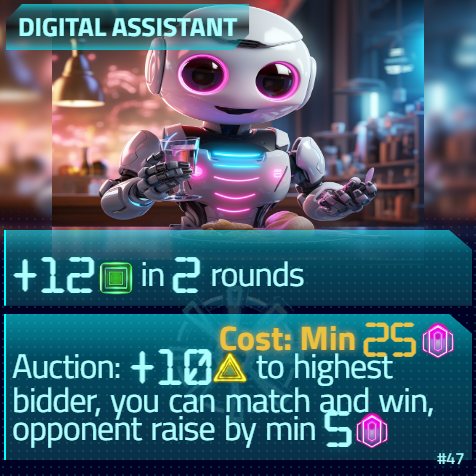
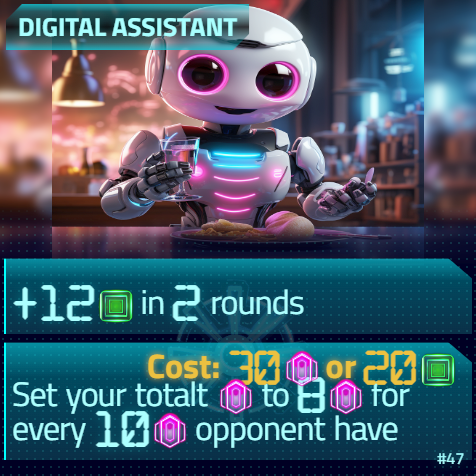
tweaks after playetest micke

diff --git a/src/components/SingularityCards2.js b/src/components/SingularityCards2.js
@@ -188,6 +188,14 @@ const roundEvents = [
     "details": "No more Card Draws from now on"
   },
   {
+    "title": "Start of Round 10",
+    "details": "Both players may give +8 score to opponent to take 1 card from opponents discard pile"
+  },
+  {
+    "title": "Start of Round 10",
+    "details": "Both players may give +8 score to opponent to take 1 card from opponents discard pile"
+  },
+  {
     "title": "Start of Round 9",
     "details": "One player may Declare Swap: Opponent gains +8 score both players exchange cards no take-backs"
   },
@@ -298,7 +306,7 @@ const initialCards =[
     "action1": "Calibrate Reward Parameters",
     "details1": "+6 \nand +8 data if your discard pile has a card with 'Data' in its name",
     "action2": "Outsource Labeling",
-    "details2": "Competition: Player with most Score after 2 \nmore rounds get +12 score",
+    "details2": "Competition: Player with most Score after 2 \nmore rounds get +10 score",
     "cost": "10 Data or 4 processing",
     "id": 4,
     "type": "base"
@@ -340,9 +348,9 @@ const initialCards =[
     "img": "/chatgpt-apps3/static/media/gan.c7a1131628c7e0ddca44.jpg",
     "title": "FontSGenerative Adversarial Network",
     "action1": "Deceive Discriminator",
-    "details1": "Both players get +6 data per 10 data",
+    "details1": "+10 data",
     "action2": "Begin Zero-Sum Game",
-    "details2": "Competition: The player with the most processing after 2 \nmore rounds gets +12 score",
+    "details2": "Competition: The player with the most processing after 2 \nmore rounds gets +10 score",
     "cost": "10 Data or 4 processing",
     "id": 8,
     "type": "hc"
@@ -351,7 +359,7 @@ const initialCards =[
     "img": "https://cdn.midjourney.com/f58a0612-0df7-428d-ab04-48509b54bc4f/0_0.webp",
     "title": "Computer Vision",
     "action1": "Detect objects",
-    "details1": "Copy any free action in your discard pile",
+    "details1": "+3 processing and +3 processing per 10 processing",
     "action2": "Tune model",
     "details2": "Competition: The player with highest reached data starting now get +12 score at end of game",
     "cost": "14 Data or 6 processing",
@@ -362,9 +370,9 @@ const initialCards =[
     "img": "https://cdn.midjourney.com/fa3f2293-32d8-497c-8e6d-6750afb5e420/0_2.png",
     "title": "Recurrent Neural Network",
     "action1": "Recall Long Short-Term Memory",
-    "details1": "+3 processing and +3 processing per 10 processing",
+    "details1": "Copy any free action in your discard pile",
     "action2": "Backpropagate errors",
-    "details2": "Reveal 1 \ncard from hand and play the free action of that card 2\ntimes\n",
+    "details2": "From now, get an additional +2 processing each time an action gives you processing excluding this card",
     "cost": "16 data or 8 processing",
     "id": "10",
     "type": "base"
@@ -406,10 +414,10 @@ const initialCards =[
     "img": "/chatgpt-apps3/static/media/blixt.1e43ccc8de62f427e69b.jpg",
     "title": "CPU Voltage Spike",
     "action1": "Accidentally Overclock",
-    "details1": "+10 data",
+    "details1": "",
     "action2": "Overload game",
-    "details2": "From now, get an additional +2 processing each time an action gives you processing excluding this card",
-    "cost": "16 data or 8 processing",
+    "details2": "",
+    "cost": "",
     "id": 17,
     "type": "base"
   },
@@ -505,7 +513,7 @@ const initialCards =[
     "img": "https://cdn.midjourney.com/553dcd0f-4029-4a32-9b8e-4b57f1c186f3/0_1.png",
     "title": "Virtual Reality",
     "action1": "Ready Player One",
-    "details1": "+2 data per score",
+    "details1": "+1 data per score",
     "action2": "Enter Matrix ",
     "details2": "Swap 1 card in hand with 1 card in any discard pile",
     "cost": "10 data or 6 processing",
@@ -551,8 +559,8 @@ const initialCards =[
     "action1": "Set timer for 2 minutes",
     "details1": "+12 processing in 2 \nrounds",
     "action2": "Record secretly",
-    "details2": "Auction: +10 score to highest bidder, you can match and win, opponent raise by min 5 data",
-    "cost": "Min 25 data",
+    "details2": "Set your totalt data to 8 data for every 10 data opponent have",
+    "cost": "30 data or 20 processing",
     "id": "47",
     "type": "v2"
   },
@@ -584,7 +592,7 @@ const initialCards =[
     "action1": "Tunnel TV",
     "details1": "+6 processing and +4 processing if opponent have 0 processing",
     "action2": "Trick tyrant",
-    "details2": "In 2 \nrounds, pick one of +80 data <br> or +40 processing or +16 score",
+    "details2": "In 2 \nrounds, pick one of +80 data <br> or +38 processing or +16 score",
     "cost": "50 data or 24 processing",
     "id": "51",
     "type": "v3"
@@ -615,10 +623,10 @@ const initialCards =[
     "img": "/chatgpt-apps3/static/media/wave.faa8981834be144fedec.png",
     "title": "Natural Language Processing",
     "action1": "Pre-train generative transformer",
-    "details1": "+1 processing per score",
+    "details1": "+1 processing per 2 score ",
     "action2": "Tokenize world",
-    "details2": "Set your totalt data to 8 data for every 10 data opponent have",
-    "cost": "30 data or 20 processing",
+    "details2": "Reveal 1 \ncard from hand and play the free action of that card 2\ntimes\n",
+    "cost": "16 data or 8 processing",
     "id": "55",
     "type": "v3"
   },
@@ -1340,10 +1348,11 @@ const RoundEventCard = React.forwardRef(({ id = -1, type = "base" }, ref) => {
         <br></br>
         <CardActions key={id + "111"} title={roundEvents[0].title} details={roundEvents[0].details} ></CardActions>
         {/* <CardActions key={id + "222"} title={roundEvents[1].title} details={roundEvents[1].details}></CardActions> */}
+        <br></br>
         <CardActions key={id + "333"} title={roundEvents[2].title} details={roundEvents[2].details}></CardActions>
         <CardActions key={id + "444"} title={roundEvents[3].title} details={roundEvents[3].details} ></CardActions>
-        <CardActions key={id + "555"} title={roundEvents[4].title} details={roundEvents[4].details} ></CardActions>
-        {<CardActions key={id + "555"} title={roundEvents[5].title} details={roundEvents[5].details} ></CardActions>}
+         <CardActions key={id + "555"} title={roundEvents[4].title} details={roundEvents[4].details} ></CardActions>
+        {/* {<CardActions key={id + "555"} title={roundEvents[5].title} details={roundEvents[5].details} ></CardActions>}  */}
       </FadeBackground>
 
     </CardContainer>
@@ -1501,7 +1510,7 @@ const ImageRules = styled(Image)`
   width: 100%;
   height: 100%;	
   object-fit: cover;
-  filter: brightness(25%);
+  filter: brightness(30%);
   margin: -20px;
   `;
 
